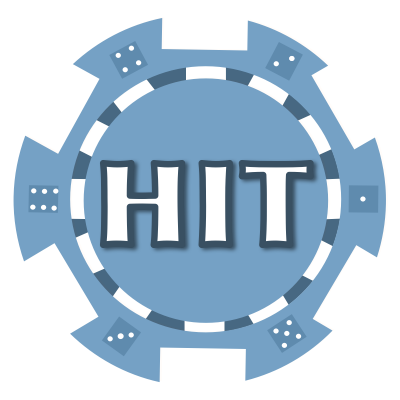
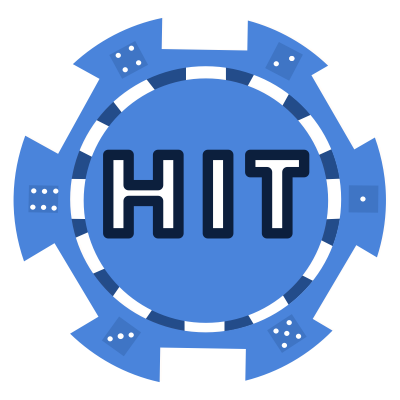
add fonts

diff --git a/css/style.css b/css/style.css
@@ -12,6 +12,8 @@ html {
 }
 :root {
   font-size: 62.5%;
+  --cursive: "Audiowide", cursive;
+  --serif: "Cinzel Decorative", serif;
 }
 body {
   background-color: whitesmoke;
@@ -34,16 +36,19 @@ main{
   font-size: 45px;
   font-weight: bolder;
   padding: 10px 0;
+  font-family: var(--serif);
 }
 #dealer-text{
   text-align: left;
   margin-left: 9px;
-  font-size: 11px;
+  font-size: 7px;
+  font-family: var(--cursive);
 }
 #player-text{
   text-align: left;
   margin-left: 9px;
-  font-size: 11px;
+  font-size: 7px;
+  font-family: var(--cursive);
 }
 
 #dealer-card > .card{
@@ -56,30 +61,36 @@ main{
 
 #msg{
   margin: 20px 0;
+  font-family: var(--cursive);
+  font-size: 12px;
 }
 
 #hit-stand > .hit{
   background-color: transparent;
-  width: 60px;
+  width: 70px;
   padding: 0px;
   margin-top: 10px;
 }
 #hit-btn{
-  width: 100%;
+  width: 90%;
 }
 #hit-stand > .stand{
   background-color: transparent;
-  width: 60px;
+  width: 70px;
   padding: 0px;
   margin-top: 10px;
 }
 #stand-btn{
-  width: 100%;
+  width: 90%;
 }
 #new-game{
   margin: 10px;
-  background-color: whitesmoke;
-  color: darkgreen
+  background-color: rgb(184, 69, 96);
+  color: rgb(255, 254, 255);
+  border: solid 2px whitesmoke;
+  border-radius: 25px; 
+  font-size: smaller;
+  font-family: var(--cursive);
 }
 
 @media only screen and (min-width: 600px) {

diff --git a/index.html b/index.html
@@ -12,6 +12,9 @@
   <link rel="stylesheet" href="./css/style.css">
   <link href="css/cardstarter.css" rel="stylesheet">
   <link id="favicon" rel="icon" href="./images/BJfavi.png" type="image/png" sizes="32x32">
+  <link rel="preconnect" href="https://fonts.googleapis.com">
+  <link rel="preconnect" href="https://fonts.gstatic.com" crossorigin>
+  <link href="https://fonts.googleapis.com/css2?family=Audiowide&family=Cinzel+Decorative:wght@700&display=swap" rel="stylesheet">
 </head>
 
 <body>
